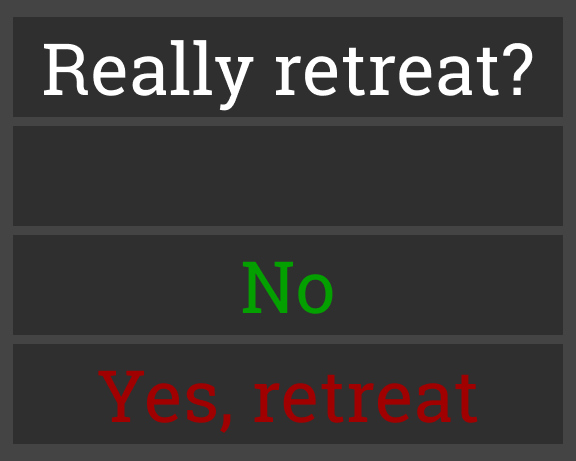
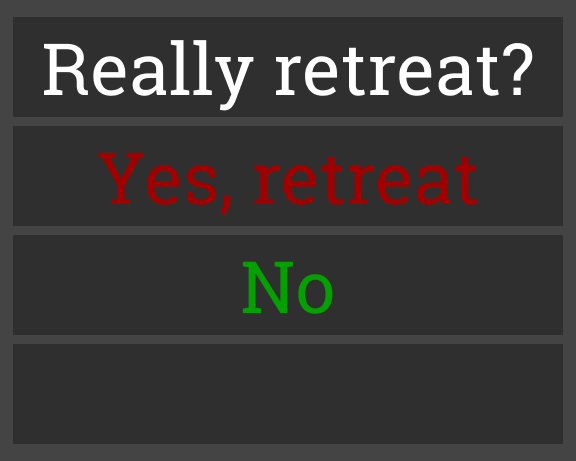
Added retreat and locked attacks

diff --git a/Game.py b/Game.py
@@ -46,6 +46,12 @@ battle_bosses_killed = []
 battle_prevx = 0
 battle_prevy = 0
 
+battle_unlocked_shot = False
+battle_unlocked_fire = False
+battle_unlocked_ice = False
+battle_unlocked_heal = False
+battle_unlocked_brave = False
+
 shop_i_cost = "n/a"
 shop_i_health = "n/a"
 shop_i_attack = "n/a"
@@ -91,6 +97,8 @@ battle_bar_hp = img.load("img/battle/bar_hp.png").convert()
 battle_bar_attacktime = img.load("img/battle/bar_attacktime.png").convert()
 battle_won = img.load("img/battle/won_1.png").convert()
 battle_lost = img.load("img/battle/lost_1.png").convert()
+battle_lock = img.load("img/battle/locked_1.png").convert_alpha()
+battle_retreated = img.load("img/battle/retreated_1.png").convert()
 
 roboto_15 = pygame.font.Font("font/Roboto-Bold.ttf", 15)
 roboto_30 = pygame.font.Font("font/Roboto-Bold.ttf", 30)
@@ -537,6 +545,11 @@ def re_draw():
     global battle_prevgold
     global txt1
     global txt2
+    global battle_unlocked_shot
+    global battle_unlocked_fire
+    global battle_unlocked_ice
+    global battle_unlocked_heal
+    global battle_unlocked_brave
 
     if state == "Title":
         win.blit(background, (0,0))
@@ -767,6 +780,20 @@ def re_draw():
                 win.blit(battle_menu_2, (1344, 0))
                 # TODO LATER: Make stuff "select" when mouse is over like the menu
                 
+                # If button is locked
+                if battle_unlocked_shot == False:
+                    win.blit(battle_lock, (257, 137))
+                if battle_unlocked_fire == False:
+                    win.blit(battle_lock, (257, 246))
+                if battle_unlocked_ice == False:
+                    win.blit(battle_lock, (257, 355))
+                if battle_unlocked_heal == False:
+                    win.blit(battle_lock, (1601, 28))
+                if battle_unlocked_brave == False:
+                    win.blit(battle_lock, (1601, 137))
+                #if battle_unlocked_placeholder == False:
+                    #win.blit(battle_lock, (1601, 28))
+
                 mouse_1, mouse_2, mouse_3 = pygame.mouse.get_pressed()
                 if mouse_1:
                     if b_x >= 13 and b_x <= 563:
@@ -775,22 +802,27 @@ def re_draw():
                             # Clicked on the Slash button
                             battle_queue.append("p_slash")
                         elif b_y >= 126 and b_y <= 226:
-                            # Clicked on the Shot button
-                            battle_queue.append("p_shot")
+                            # Clicked on the Shot 
+                            if battle_unlocked_shot:
+                                battle_queue.append("p_shot")
                         elif b_y >= 235 and b_y <= 335:
                             # Clicked on the Fire button
-                            battle_queue.append("p_fire")
+                            if battle_unlocked_fire:
+                                battle_queue.append("p_fire")
                         elif b_y >= 334 and b_y <= 444:
                             # Clicked on the ice button
-                            battle_queue.append("p_ice")
+                            if battle_unlocked_ice:
+                                battle_queue.append("p_ice")
                     elif b_x >= 1344 and b_x <= 1920: 
                         # Mouse is probably over one of the buttons on the left.
                         if b_y >= 17 and b_y <= 117:
                             # Clicked on the Heal button
-                            battle_queue.append("p_heal")
+                            if battle_unlocked_heal:
+                                battle_queue.append("p_heal")
                         elif b_y >= 126 and b_y <= 226:
                             # Clicked on the Brave button
-                            battle_queue.append("p_brave")
+                            if battle_unlocked_brave:
+                                battle_queue.append("p_brave")
                         elif b_y >= 235 and b_y <= 335:
                             # Clicked on the PLACEHOLDER button
                             pass
@@ -803,6 +835,7 @@ def re_draw():
                 win.blit(battle_menu_1, (0, 0))
                 win.blit(battle_menu_3, (1344, 0))
                 mouse_1, mouse_2, mouse_3 = pygame.mouse.get_pressed()
+
                 if mouse_1:
                     if b_x >= 13 and b_x <= 563:
                         # Mouse is probably over one of the buttons on the right.
@@ -811,18 +844,21 @@ def re_draw():
                             battle_queue.append("p_slash")
                         elif b_y >= 126 and b_y <= 226:
                             # Clicked on the Shot button
-                            battle_queue.append("p_shot")
+                            if battle_unlocked_shot:
+                                battle_queue.append("p_shot")
                         elif b_y >= 235 and b_y <= 335:
                             # Clicked on the Fire button
-                            battle_queue.append("p_fire")
+                            if battle_unlocked_fire:
+                                battle_queue.append("p_fire")
                         elif b_y >= 334 and b_y <= 444:
                             # Clicked on the ice button
-                            battle_queue.append("p_ice")
+                            if battle_unlocked_ice:
+                                battle_queue.append("p_ice")
                     elif b_x >= 1344 and b_x <= 1920: 
                         # Mouse is probably over one of the buttons on the left.
                         if b_y >= 126 and b_y <= 226:
                             # Clicked on the Yes, retreat button
-                            pass
+                            battle_state = "Retreated"
                         elif b_y >= 235 and b_y <= 335:
                             # Clicked on the No button
                             battle_menu = 1
@@ -849,10 +885,11 @@ def re_draw():
 
             # Player and Enemy HP (respectively)
             try:
-                pygame.draw.rect(win, (abs(player_.hp*2.55-255), player_.hp*2.55, 0), (586, 22, round(player_.hp*3.33), 54))
-                pygame.draw.rect(win, (abs(battle_enemy_hp*2.55-255), battle_enemy_hp*2.55, 0), (1001, 22, round(battle_enemy_hp*3.33), 54))
+                pygame.draw.rect(win, (abs(player_.hp/player_.maxhp*255-255), player_.hp/player_.maxhp*255, 0), (586, 22, round(player_.hp/player_.maxhp*333), 54))
+                pygame.draw.rect(win, (abs(battle_enemy_hp/battle_enemy_maxhp*255-255), battle_enemy_hp/battle_enemy_maxhp*255, 0), (1001, 22, round(battle_enemy_hp/battle_enemy_maxhp*333), 54))
             except:
                 pass
+
 
             if battle_enemy_hp <= 0:
                 battle_state = "Won"
@@ -888,6 +925,11 @@ def re_draw():
                     battle_state = "normal"
                     temp = random.randint(player_.attack/5*-1, player_.attack/5)
                     battle_enemy_hp -= player_.attack + temp
+            
+            elif battle_animation == "e_shot":
+                pass
+            elif battle_animation == "p_shot":
+                pass
 
             else:
                 print('"{}" is not recognized as a battle_animation.'.format(battle_animation))
@@ -912,6 +954,8 @@ def re_draw():
                 battle_time = 0
                 if battle_enemy == "Boss_1":
                     battle_queue.append("e_slash")
+                if battle_enemy == "Zombie_1":
+                    battle_queue.append("e_slash")
             elif battle_time <= battle_speed:
                 battle_time += 1
             else:
@@ -922,8 +966,10 @@ def re_draw():
 
             # Player and Enemy HP (respectively)
             try:
-                pygame.draw.rect(win, (abs(player_.hp*2.55-255), player_.hp*2.55, 0), (586, 22, round(player_.hp*3.33), 54))
-                pygame.draw.rect(win, (abs(battle_enemy_hp*2.55-255), battle_enemy_hp*2.55, 0), (1001, 22, round(battle_enemy_hp*3.33), 54))
+                pygame.draw.rect(win, (abs(player_.hp/player_.maxhp*255-255), player_.hp/player_.maxhp*255, 0), 
+                (586, 22, round(player_.hp/player_.maxhp*333), 54))
+                pygame.draw.rect(win, (abs(battle_enemy_hp/battle_enemy_maxhp*255-255), battle_enemy_hp/battle_enemy_maxhp*255, 0), 
+                (1001, 22, round(battle_enemy_hp/battle_enemy_maxhp*333), 54))
             except:
                 pass
 
@@ -974,9 +1020,38 @@ def re_draw():
                 if player_.money - battle_enemy_gold * battle_gold_random >= 0:
                     player_.money -= battle_enemy_gold * battle_gold_random
 
+                    txt1 = roboto_120.render(str(battle_enemy_gold * battle_gold_random), True, (255, 255, 255))
+                else:
+                    txt1 = roboto_120.render("all", True, (255, 255, 255))
+                    player_.money = 0
+                txt2 = roboto_120.render(str(round(battle_enemy_hp/battle_enemy_maxhp*100)), True, (255, 255, 255))
+            win.blit(txt1, (900, 300))
+            win.blit(txt2, (900, 700))
+            slice_ = level.get_startslice(leveln)
+            temp = level.get_startpos(leveln)
+            player_.rect.x = temp[0]
+            player_.rect.y = temp[1]
+
+            mouse_1, mouse_2, mouse_3 = pygame.mouse.get_pressed()
+            if mouse_1:
+                if b_x >= 1695 and b_y >= 985:
+                    # Clicked on Next button
+                    state = "Explore_update"
+                    battle_state = "normal"
+
+
+        if battle_state == "Retreated":
+            win.blit(battle_retreated, (0, 0))
+            if battle_gold_random == 0:
+                battle_gold_random = random.randint(1, 3)
+            if player_.money - battle_enemy_gold * battle_gold_random == battle_prevgold - battle_enemy_gold * battle_gold_random:
+                if player_.money - battle_enemy_gold + battle_gold_random >= 0:
+                    player_.money -= battle_enemy_gold + battle_gold_random
+
                     txt1 = roboto_120.render(str(battle_enemy_gold + battle_gold_random), True, (255, 255, 255))
                 else:
-                    txt1 = roboto_120.render("0", True, (255, 255, 255))
+                    txt1 = roboto_120.render("all", True, (255, 255, 255))
+                    player_.money = 0
                 txt2 = roboto_120.render(str(round(battle_enemy_hp/battle_enemy_maxhp*100)), True, (255, 255, 255))
             win.blit(txt1, (900, 300))
             win.blit(txt2, (900, 700))
@@ -1018,7 +1093,7 @@ def re_draw():
             battle_enemy_hp = 100
             battle_enemy_maxhp = 100
             battle_enemy_attack = 15
-            battle_enemy_gold = 10
+            battle_enemy_gold = 5
 
         state = "Battle"
 
